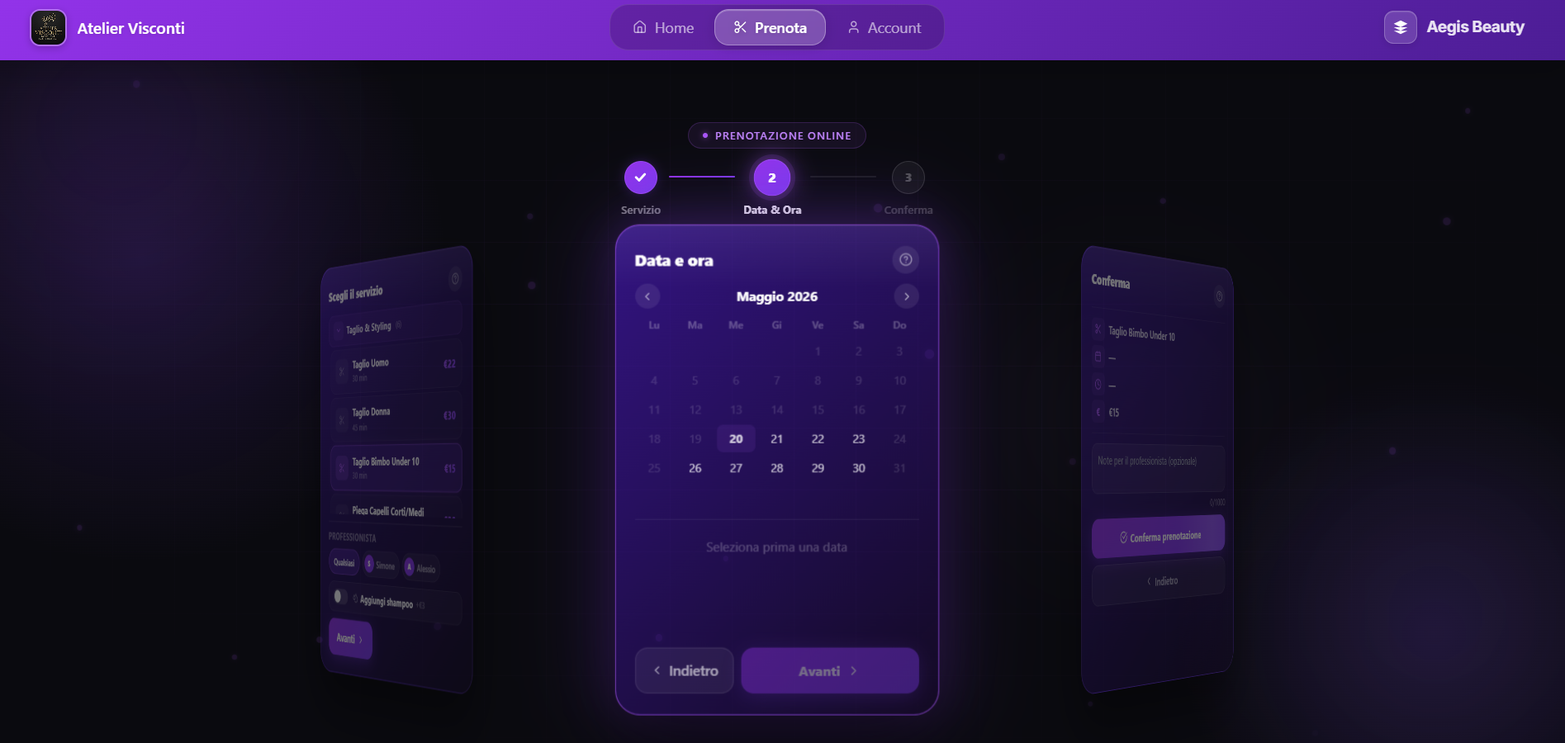
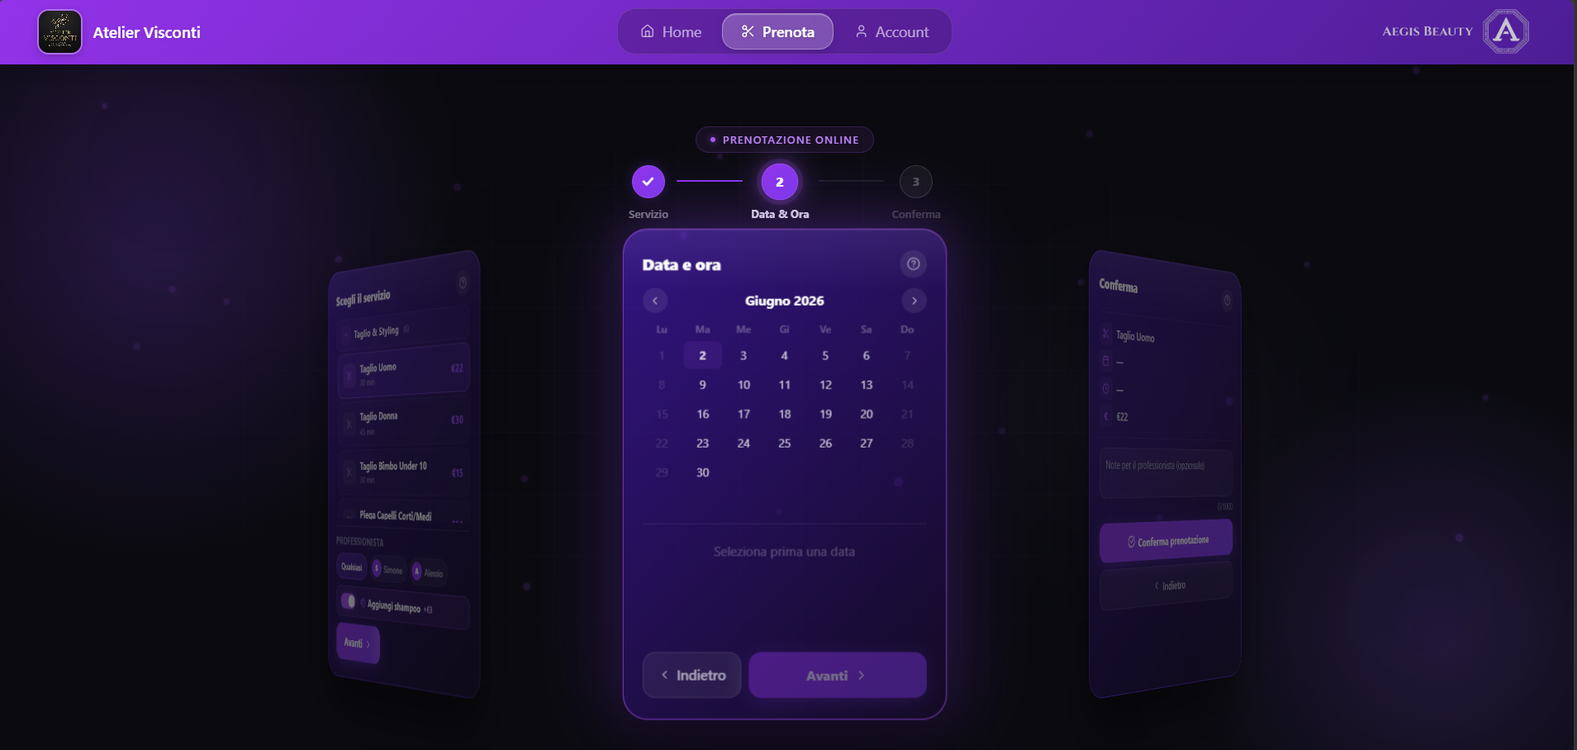
feat: update prenotazioni product screenshot with new branding

diff --git a/apps/aegis-beauty/public/sw.js b/apps/aegis-beauty/public/sw.js
@@ -1,1 +1,1 @@
-if(!self.define){let e,a={};const n=(n,s)=>(n=new URL(n+".js",s).href,a[n]||new Promise(a=>{if("document"in self){const e=document.createElement("script");e.src=n,e.onload=a,document.head.appendChild(e)}else e=n,importScripts(n),a()}).then(()=>{let e=a[n];if(!e)throw new Error(`Module ${n} didn’t register its module`);return e}));self.define=(s,t)=>{const c=e||("document"in self?document.currentScript.src:"")||location.href;if(a[c])return;let r={};const i=e=>n(e,c),o={module:{uri:c},exports:r,require:i};a[c]=Promise.all(s.map(e=>o[e]||i(e))).then(e=>(t(...e),r))}}define(["./workbox-5194662c"],function(e){"use strict";importScripts("/fallback-ce627215c0e4a9af.js","/worker-e7cc60916d7f17f1.js"),self.skipWaiting(),e.clientsClaim(),e.precacheAndRoute([{url:"/_next/static/XR7Ss9BYuPwAQtqjApV0S/_buildManifest.js",revision:"f4dc98d4515ed831c1f0452f6252f7d5"},{url:"/_next/static/XR7Ss9BYuPwAQtqjApV0S/_ssgManifest.js",revision:"b6652df95db52feb4daf4eca35380933"},{url:"/_next/static/chunks/15947a89-3489dcf530e2bcbf.js",revision:"3489dcf530e2bcbf"},{url:"/_next/static/chunks/2138-be451a3358196c92.js",revision:"be451a3358196c92"},{url:"/_next/static/chunks/2716.df24ca353e3d2782.js",revision:"df24ca353e3d2782"},{url:"/_next/static/chunks/2737.d21a5d54d02839f7.js",revision:"d21a5d54d02839f7"},{url:"/_next/static/chunks/2792-0906f7c4f5b123bc.js",revision:"0906f7c4f5b123bc"},{url:"/_next/static/chunks/2923-2fb2f4869fe125fe.js",revision:"2fb2f4869fe125fe"},{url:"/_next/static/chunks/3253-3761fb05873fb2f2.js",revision:"3761fb05873fb2f2"},{url:"/_next/static/chunks/3451-76a824fe5e76805a.js",revision:"76a824fe5e76805a"},{url:"/_next/static/chunks/3700-9677e51c2f240df4.js",revision:"9677e51c2f240df4"},{url:"/_next/static/chunks/3770-c9e68496c05d9572.js",revision:"c9e68496c05d9572"},{url:"/_next/static/chunks/4174.1a72b0b98ca14300.js",revision:"1a72b0b98ca14300"},{url:"/_next/static/chunks/4220-484f861d17287106.js",revision:"484f861d17287106"},{url:"/_next/static/chunks/4507-17f594d5a46447b5.js",revision:"17f594d5a46447b5"},{url:"/_next/static/chunks/4579.39316dc49619d892.js",revision:"39316dc49619d892"},{url:"/_next/static/chunks/659-ce48c1b6dd88d735.js",revision:"ce48c1b6dd88d735"},{url:"/_next/static/chunks/7026-0ad234174be0779d.js",revision:"0ad234174be0779d"},{url:"/_next/static/chunks/9853.11406703f96f9cda.js",revision:"11406703f96f9cda"},{url:"/_next/static/chunks/9865-06ed6395fa0a3a1f.js",revision:"06ed6395fa0a3a1f"},{url:"/_next/static/chunks/app/(auth)/forgot-password/page-def0dce28ab94205.js",revision:"def0dce28ab94205"},{url:"/_next/static/chunks/app/(auth)/layout-13ca588f9fa88ec7.js",revision:"13ca588f9fa88ec7"},{url:"/_next/static/chunks/app/(auth)/login/page-5b086d0565b33ddf.js",revision:"5b086d0565b33ddf"},{url:"/_next/static/chunks/app/(auth)/register/page-254d63c24905d7c3.js",revision:"254d63c24905d7c3"},{url:"/_next/static/chunks/app/(auth)/reset-password/page-f1edcecd67e63588.js",revision:"f1edcecd67e63588"},{url:"/_next/static/chunks/app/(customer)/%5BbusinessSlug%5D/account/page-db9a6a37c7a7b437.js",revision:"db9a6a37c7a7b437"},{url:"/_next/static/chunks/app/(customer)/%5BbusinessSlug%5D/layout-45c093cabf4d6eda.js",revision:"45c093cabf4d6eda"},{url:"/_next/static/chunks/app/(customer)/%5BbusinessSlug%5D/page-c15ccc3008368fcd.js",revision:"c15ccc3008368fcd"},{url:"/_next/static/chunks/app/(customer)/%5BbusinessSlug%5D/prenota/page-6a3723cd69ae64f3.js",revision:"6a3723cd69ae64f3"},{url:"/_next/static/chunks/app/(customer)/layout-13ca588f9fa88ec7.js",revision:"13ca588f9fa88ec7"},{url:"/_next/static/chunks/app/(dashboard)/dashboard/aiuto/page-d1ec727b9d383804.js",revision:"d1ec727b9d383804"},{url:"/_next/static/chunks/app/(dashboard)/dashboard/calendario/page-86d13ef339342335.js",revision:"86d13ef339342335"},{url:"/_next/static/chunks/app/(dashboard)/dashboard/clienti/page-f689393918676e3f.js",revision:"f689393918676e3f"},{url:"/_next/static/chunks/app/(dashboard)/dashboard/impostazioni/page-186abb1deadd1bc3.js",revision:"186abb1deadd1bc3"},{url:"/_next/static/chunks/app/(dashboard)/dashboard/page-e3fa49ee33bc5618.js",revision:"e3fa49ee33bc5618"},{url:"/_next/static/chunks/app/(dashboard)/dashboard/servizi/page-3461a21c6356e2f6.js",revision:"3461a21c6356e2f6"},{url:"/_next/static/chunks/app/(dashboard)/dashboard/staff/page-215603426b024e76.js",revision:"215603426b024e76"},{url:"/_next/static/chunks/app/(dashboard)/dashboard/statistiche/page-24c0ddd59c3225cf.js",revision:"24c0ddd59c3225cf"},{url:"/_next/static/chunks/app/(dashboard)/layout-22deca48145b0a24.js",revision:"22deca48145b0a24"},{url:"/_next/static/chunks/app/(dashboard)/onboarding/%5Bstep%5D/page-87357842d20b77d6.js",revision:"87357842d20b77d6"},{url:"/_next/static/chunks/app/(dashboard)/onboarding/layout-23f4c2131bf189e1.js",revision:"23f4c2131bf189e1"},{url:"/_next/static/chunks/app/(dashboard)/onboarding/page-23e414cd8930c5ea.js",revision:"23e414cd8930c5ea"},{url:"/_next/static/chunks/app/(marketing)/demo/page-c25df75e25b04d91.js",revision:"c25df75e25b04d91"},{url:"/_next/static/chunks/app/(marketing)/layout-d166dcfe3d0bac3e.js",revision:"d166dcfe3d0bac3e"},{url:"/_next/static/chunks/app/(marketing)/legal/page-efa3a81dd0faeb64.js",revision:"efa3a81dd0faeb64"},{url:"/_next/static/chunks/app/(marketing)/page-4ea2a7c766dd0ac9.js",revision:"4ea2a7c766dd0ac9"},{url:"/_next/static/chunks/app/_not-found/page-1b0e63a15d78ac67.js",revision:"1b0e63a15d78ac67"},{url:"/_next/static/chunks/app/api/appointments/create/route-13ca588f9fa88ec7.js",revision:"13ca588f9fa88ec7"},{url:"/_next/static/chunks/app/api/availability/route-13ca588f9fa88ec7.js",revision:"13ca588f9fa88ec7"},{url:"/_next/static/chunks/app/api/bookings/cancel/route-13ca588f9fa88ec7.js",revision:"13ca588f9fa88ec7"},{url:"/_next/static/chunks/app/api/bookings/create/route-13ca588f9fa88ec7.js",revision:"13ca588f9fa88ec7"},{url:"/_next/static/chunks/app/api/bookings/slots/route-13ca588f9fa88ec7.js",revision:"13ca588f9fa88ec7"},{url:"/_next/static/chunks/app/api/clients/import/route-13ca588f9fa88ec7.js",revision:"13ca588f9fa88ec7"},{url:"/_next/static/chunks/app/api/clients/invite-batch/route-13ca588f9fa88ec7.js",revision:"13ca588f9fa88ec7"},{url:"/_next/static/chunks/app/api/customer/link/route-13ca588f9fa88ec7.js",revision:"13ca588f9fa88ec7"},{url:"/_next/static/chunks/app/api/customers/search/route-13ca588f9fa88ec7.js",revision:"13ca588f9fa88ec7"},{url:"/_next/static/chunks/app/api/notifications/inbox/route-13ca588f9fa88ec7.js",revision:"13ca588f9fa88ec7"},{url:"/_next/static/chunks/app/api/notifications/monthly/route-13ca588f9fa88ec7.js",revision:"13ca588f9fa88ec7"},{url:"/_next/static/chunks/app/api/notifications/reminder/route-13ca588f9fa88ec7.js",revision:"13ca588f9fa88ec7"},{url:"/_next/static/chunks/app/api/push/send/route-13ca588f9fa88ec7.js",revision:"13ca588f9fa88ec7"},{url:"/_next/static/chunks/app/api/push/subscribe/route-13ca588f9fa88ec7.js",revision:"13ca588f9fa88ec7"},{url:"/_next/static/chunks/app/api/push/unsubscribe/route-13ca588f9fa88ec7.js",revision:"13ca588f9fa88ec7"},{url:"/_next/static/chunks/app/api/staff/invite/route-13ca588f9fa88ec7.js",revision:"13ca588f9fa88ec7"},{url:"/_next/static/chunks/app/api/staff/permissions/route-13ca588f9fa88ec7.js",revision:"13ca588f9fa88ec7"},{url:"/_next/static/chunks/app/api/staff/register/route-13ca588f9fa88ec7.js",revision:"13ca588f9fa88ec7"},{url:"/_next/static/chunks/app/api/staff/setup/route-13ca588f9fa88ec7.js",revision:"13ca588f9fa88ec7"},{url:"/_next/static/chunks/app/api/support/route-13ca588f9fa88ec7.js",revision:"13ca588f9fa88ec7"},{url:"/_next/static/chunks/app/auth/callback/route-13ca588f9fa88ec7.js",revision:"13ca588f9fa88ec7"},{url:"/_next/static/chunks/app/layout-014fce5f8cb22581.js",revision:"014fce5f8cb22581"},{url:"/_next/static/chunks/app/robots.txt/route-13ca588f9fa88ec7.js",revision:"13ca588f9fa88ec7"},{url:"/_next/static/chunks/app/sitemap.xml/route-13ca588f9fa88ec7.js",revision:"13ca588f9fa88ec7"},{url:"/_next/static/chunks/app/start/page-13ca588f9fa88ec7.js",revision:"13ca588f9fa88ec7"},{url:"/_next/static/chunks/db534642-bcff2fd231656eb4.js",revision:"bcff2fd231656eb4"},{url:"/_next/static/chunks/f1aed662-2ba150516db6bd6e.js",revision:"2ba150516db6bd6e"},{url:"/_next/static/chunks/framework-97c573202684c401.js",revision:"97c573202684c401"},{url:"/_next/static/chunks/main-7b3374ab3640a6e9.js",revision:"7b3374ab3640a6e9"},{url:"/_next/static/chunks/main-app-ce181ddfc4b7c5d6.js",revision:"ce181ddfc4b7c5d6"},{url:"/_next/static/chunks/pages/_app-2a674d307585865d.js",revision:"2a674d307585865d"},{url:"/_next/static/chunks/pages/_error-10117e40c3cb360b.js",revision:"10117e40c3cb360b"},{url:"/_next/static/chunks/polyfills-42372ed130431b0a.js",revision:"846118c33b2c0e922d7b3a7676f81f6f"},{url:"/_next/static/chunks/webpack-fc5608c7a609d241.js",revision:"fc5608c7a609d241"},{url:"/_next/static/css/081a0afca5a9bd20.css",revision:"081a0afca5a9bd20"},{url:"/_next/static/css/fe96acad39e6e33a.css",revision:"fe96acad39e6e33a"},{url:"/_next/static/media/19cfc7226ec3afaa-s.woff2",revision:"9dda5cfc9a46f256d0e131bb535e46f8"},{url:"/_next/static/media/21350d82a1f187e9-s.woff2",revision:"4e2553027f1d60eff32898367dd4d541"},{url:"/_next/static/media/8e9860b6e62d6359-s.woff2",revision:"01ba6c2a184b8cba08b0d57167664d75"},{url:"/_next/static/media/ba9851c3c22cd980-s.woff2",revision:"9e494903d6b0ffec1a1e14d34427d44d"},{url:"/_next/static/media/c5fe6dc8356a8c31-s.woff2",revision:"027a89e9ab733a145db70f09b8a18b42"},{url:"/_next/static/media/df0a9ae256c0569c-s.woff2",revision:"d54db44de5ccb18886ece2fda72bdfe0"},{url:"/_next/static/media/e4af272ccee01ff0-s.p.woff2",revision:"65850a373e258f1c897a2b3d75eb74de"},{url:"/fallback-ce627215c0e4a9af.js",revision:"9890ee4ed588777bd05b3033bd1dcc92"},{url:"/logo-marketing.png",revision:"ecc1b0913a72a02256888a331a024595"},{url:"/logo-orizzontale-rev.png",revision:"1af867d9ac5ac43bab065be68aa0d5f4"},{url:"/logo-orizzontale.png",revision:"f9502aec0ac29a3d973c95cf07e32c56"},{url:"/logo-verticale.png",revision:"eb8bafae678d3ffbae5273ec2a9a561a"},{url:"/manifest.json",revision:"14cea6cd2b6a743d691e582016a4e8f7"},{url:"/offline.html",revision:"a4e3c01eea0c2c9c86d30042d7eac8c5"},{url:"/og-image.png",revision:"85efba457b961494fa7a86def8d57288"},{url:"/product-brand.png",revision:"ef37544c1cb1c69c819c5ad8b142a759"},{url:"/product-calendario.png",revision:"d65c880da19f5776120b3372bcb06e65"},{url:"/product-clienti.png",revision:"2a5b91c66bba7460511ede7f51052257"},{url:"/product-overview.png",revision:"52a384c2410a6d4a9f59982ca948603c"},{url:"/product-prenota.png",revision:"e6d2996251b254a05e3a34c1e436ccc6"},{url:"/product-staff.png",revision:"5518f5af5bfd75b4959ec3ec48037939"},{url:"/product-statistiche.png",revision:"32461af0867b67fcc668f71f96503699"},{url:"/worker-e7cc60916d7f17f1.js",revision:"754923e37079918ef24008bebd8b8008"}],{ignoreURLParametersMatching:[/^utm_/,/^fbclid$/]}),e.cleanupOutdatedCaches(),e.registerRoute("/",new e.NetworkFirst({cacheName:"start-url",plugins:[{cacheWillUpdate:function(e){var a=e.response;return _async_to_generator(function(){return _ts_generator(this,function(e){return[2,a&&"opaqueredirect"===a.type?new Response(a.body,{status:200,statusText:"OK",headers:a.headers}):a]})})()}},{handlerDidError:function(e){var a=e.request;return _async_to_generator(function(){return _ts_generator(this,function(e){return[2,"undefined"!=typeof self?self.fallback(a):Response.error()]})})()}}]}),"GET"),e.registerRoute(/^https:\/\/fonts\.(?:gstatic)\.com\/.*/i,new e.CacheFirst({cacheName:"google-fonts-webfonts",plugins:[new e.ExpirationPlugin({maxEntries:4,maxAgeSeconds:31536e3}),{handlerDidError:function(e){var a=e.request;return _async_to_generator(function(){return _ts_generator(this,function(e){return[2,"undefined"!=typeof self?self.fallback(a):Response.error()]})})()}}]}),"GET"),e.registerRoute(/^https:\/\/fonts\.(?:googleapis)\.com\/.*/i,new e.StaleWhileRevalidate({cacheName:"google-fonts-stylesheets",plugins:[new e.ExpirationPlugin({maxEntries:4,maxAgeSeconds:604800}),{handlerDidError:function(e){var a=e.request;return _async_to_generator(function(){return _ts_generator(this,function(e){return[2,"undefined"!=typeof self?self.fallback(a):Response.error()]})})()}}]}),"GET"),e.registerRoute(/\.(?:eot|otf|ttc|ttf|woff|woff2|font.css)$/i,new e.StaleWhileRevalidate({cacheName:"static-font-assets",plugins:[new e.ExpirationPlugin({maxEntries:4,maxAgeSeconds:604800}),{handlerDidError:function(e){var a=e.request;return _async_to_generator(function(){return _ts_generator(this,function(e){return[2,"undefined"!=typeof self?self.fallback(a):Response.error()]})})()}}]}),"GET"),e.registerRoute(/\.(?:jpg|jpeg|gif|png|svg|ico|webp)$/i,new e.StaleWhileRevalidate({cacheName:"static-image-assets",plugins:[new e.ExpirationPlugin({maxEntries:64,maxAgeSeconds:2592e3}),{handlerDidError:function(e){var a=e.request;return _async_to_generator(function(){return _ts_generator(this,function(e){return[2,"undefined"!=typeof self?self.fallback(a):Response.error()]})})()}}]}),"GET"),e.registerRoute(/\/_next\/static.+\.js$/i,new e.CacheFirst({cacheName:"next-static-js-assets",plugins:[new e.ExpirationPlugin({maxEntries:64,maxAgeSeconds:86400}),{handlerDidError:function(e){var a=e.request;return _async_to_generator(function(){return _ts_generator(this,function(e){return[2,"undefined"!=typeof self?self.fallback(a):Response.error()]})})()}}]}),"GET"),e.registerRoute(/\/_next\/image\?url=.+$/i,new e.StaleWhileRevalidate({cacheName:"next-image",plugins:[new e.ExpirationPlugin({maxEntries:64,maxAgeSeconds:86400}),{handlerDidError:function(e){var a=e.request;return _async_to_generator(function(){return _ts_generator(this,function(e){return[2,"undefined"!=typeof self?self.fallback(a):Response.error()]})})()}}]}),"GET"),e.registerRoute(/\.(?:mp3|wav|ogg)$/i,new e.CacheFirst({cacheName:"static-audio-assets",plugins:[new e.RangeRequestsPlugin,new e.ExpirationPlugin({maxEntries:32,maxAgeSeconds:86400}),{handlerDidError:function(e){var a=e.request;return _async_to_generator(function(){return _ts_generator(this,function(e){return[2,"undefined"!=typeof self?self.fallback(a):Response.error()]})})()}}]}),"GET"),e.registerRoute(/\.(?:mp4|webm)$/i,new e.CacheFirst({cacheName:"static-video-assets",plugins:[new e.RangeRequestsPlugin,new e.ExpirationPlugin({maxEntries:32,maxAgeSeconds:86400}),{handlerDidError:function(e){var a=e.request;return _async_to_generator(function(){return _ts_generator(this,function(e){return[2,"undefined"!=typeof self?self.fallback(a):Response.error()]})})()}}]}),"GET"),e.registerRoute(/\.(?:js)$/i,new e.StaleWhileRevalidate({cacheName:"static-js-assets",plugins:[new e.ExpirationPlugin({maxEntries:48,maxAgeSeconds:86400}),{handlerDidError:function(e){var a=e.request;return _async_to_generator(function(){return _ts_generator(this,function(e){return[2,"undefined"!=typeof self?self.fallback(a):Response.error()]})})()}}]}),"GET"),e.registerRoute(/\.(?:css|less)$/i,new e.StaleWhileRevalidate({cacheName:"static-style-assets",plugins:[new e.ExpirationPlugin({maxEntries:32,maxAgeSeconds:86400}),{handlerDidError:function(e){var a=e.request;return _async_to_generator(function(){return _ts_generator(this,function(e){return[2,"undefined"!=typeof self?self.fallback(a):Response.error()]})})()}}]}),"GET"),e.registerRoute(/\/_next\/data\/.+\/.+\.json$/i,new e.StaleWhileRevalidate({cacheName:"next-data",plugins:[new e.ExpirationPlugin({maxEntries:32,maxAgeSeconds:86400}),{handlerDidError:function(e){var a=e.request;return _async_to_generator(function(){return _ts_generator(this,function(e){return[2,"undefined"!=typeof self?self.fallback(a):Response.error()]})})()}}]}),"GET"),e.registerRoute(/\.(?:json|xml|csv)$/i,new e.NetworkFirst({cacheName:"static-data-assets",plugins:[new e.ExpirationPlugin({maxEntries:32,maxAgeSeconds:86400}),{handlerDidError:function(e){var a=e.request;return _async_to_generator(function(){return _ts_generator(this,function(e){return[2,"undefined"!=typeof self?self.fallback(a):Response.error()]})})()}}]}),"GET"),e.registerRoute(function(e){var a=e.sameOrigin,n=e.url.pathname;return!(!a||n.startsWith("/api/auth/callback")||!n.startsWith("/api/"))},new e.NetworkFirst({cacheName:"apis",networkTimeoutSeconds:10,plugins:[new e.ExpirationPlugin({maxEntries:16,maxAgeSeconds:86400}),{handlerDidError:function(e){var a=e.request;return _async_to_generator(function(){return _ts_generator(this,function(e){return[2,"undefined"!=typeof self?self.fallback(a):Response.error()]})})()}}]}),"GET"),e.registerRoute(function(e){var a=e.request,n=e.url.pathname,s=e.sameOrigin;return"1"===a.headers.get("RSC")&&"1"===a.headers.get("Next-Router-Prefetch")&&s&&!n.startsWith("/api/")},new e.NetworkFirst({cacheName:"pages-rsc-prefetch",plugins:[new e.ExpirationPlugin({maxEntries:32,maxAgeSeconds:86400}),{handlerDidError:function(e){var a=e.request;return _async_to_generator(function(){return _ts_generator(this,function(e){return[2,"undefined"!=typeof self?self.fallback(a):Response.error()]})})()}}]}),"GET"),e.registerRoute(function(e){var a=e.request,n=e.url.pathname,s=e.sameOrigin;return"1"===a.headers.get("RSC")&&s&&!n.startsWith("/api/")},new e.NetworkFirst({cacheName:"pages-rsc",plugins:[new e.ExpirationPlugin({maxEntries:32,maxAgeSeconds:86400}),{handlerDidError:function(e){var a=e.request;return _async_to_generator(function(){return _ts_generator(this,function(e){return[2,"undefined"!=typeof self?self.fallback(a):Response.error()]})})()}}]}),"GET"),e.registerRoute(function(e){var a=e.url.pathname;return e.sameOrigin&&!a.startsWith("/api/")},new e.NetworkFirst({cacheName:"pages",plugins:[new e.ExpirationPlugin({maxEntries:32,maxAgeSeconds:86400}),{handlerDidError:function(e){var a=e.request;return _async_to_generator(function(){return _ts_generator(this,function(e){return[2,"undefined"!=typeof self?self.fallback(a):Response.error()]})})()}}]}),"GET"),e.registerRoute(function(e){return!e.sameOrigin},new e.NetworkFirst({cacheName:"cross-origin",networkTimeoutSeconds:10,plugins:[new e.ExpirationPlugin({maxEntries:32,maxAgeSeconds:3600}),{handlerDidError:function(e){var a=e.request;return _async_to_generator(function(){return _ts_generator(this,function(e){return[2,"undefined"!=typeof self?self.fallback(a):Response.error()]})})()}}]}),"GET")});
+if(!self.define){let e,a={};const n=(n,s)=>(n=new URL(n+".js",s).href,a[n]||new Promise(a=>{if("document"in self){const e=document.createElement("script");e.src=n,e.onload=a,document.head.appendChild(e)}else e=n,importScripts(n),a()}).then(()=>{let e=a[n];if(!e)throw new Error(`Module ${n} didn’t register its module`);return e}));self.define=(s,t)=>{const c=e||("document"in self?document.currentScript.src:"")||location.href;if(a[c])return;let r={};const i=e=>n(e,c),o={module:{uri:c},exports:r,require:i};a[c]=Promise.all(s.map(e=>o[e]||i(e))).then(e=>(t(...e),r))}}define(["./workbox-5194662c"],function(e){"use strict";importScripts("/fallback-ce627215c0e4a9af.js","/worker-e7cc60916d7f17f1.js"),self.skipWaiting(),e.clientsClaim(),e.precacheAndRoute([{url:"/_next/static/chunks/15947a89-3489dcf530e2bcbf.js",revision:"3489dcf530e2bcbf"},{url:"/_next/static/chunks/2138-be451a3358196c92.js",revision:"be451a3358196c92"},{url:"/_next/static/chunks/2716.df24ca353e3d2782.js",revision:"df24ca353e3d2782"},{url:"/_next/static/chunks/2737.d21a5d54d02839f7.js",revision:"d21a5d54d02839f7"},{url:"/_next/static/chunks/2792-0906f7c4f5b123bc.js",revision:"0906f7c4f5b123bc"},{url:"/_next/static/chunks/2923-2fb2f4869fe125fe.js",revision:"2fb2f4869fe125fe"},{url:"/_next/static/chunks/3253-3761fb05873fb2f2.js",revision:"3761fb05873fb2f2"},{url:"/_next/static/chunks/3451-76a824fe5e76805a.js",revision:"76a824fe5e76805a"},{url:"/_next/static/chunks/3700-9677e51c2f240df4.js",revision:"9677e51c2f240df4"},{url:"/_next/static/chunks/3770-c9e68496c05d9572.js",revision:"c9e68496c05d9572"},{url:"/_next/static/chunks/4174.1a72b0b98ca14300.js",revision:"1a72b0b98ca14300"},{url:"/_next/static/chunks/4220-484f861d17287106.js",revision:"484f861d17287106"},{url:"/_next/static/chunks/4507-17f594d5a46447b5.js",revision:"17f594d5a46447b5"},{url:"/_next/static/chunks/4579.39316dc49619d892.js",revision:"39316dc49619d892"},{url:"/_next/static/chunks/659-ce48c1b6dd88d735.js",revision:"ce48c1b6dd88d735"},{url:"/_next/static/chunks/7026-0ad234174be0779d.js",revision:"0ad234174be0779d"},{url:"/_next/static/chunks/9853.11406703f96f9cda.js",revision:"11406703f96f9cda"},{url:"/_next/static/chunks/9865-06ed6395fa0a3a1f.js",revision:"06ed6395fa0a3a1f"},{url:"/_next/static/chunks/app/(auth)/forgot-password/page-def0dce28ab94205.js",revision:"def0dce28ab94205"},{url:"/_next/static/chunks/app/(auth)/layout-13ca588f9fa88ec7.js",revision:"13ca588f9fa88ec7"},{url:"/_next/static/chunks/app/(auth)/login/page-5b086d0565b33ddf.js",revision:"5b086d0565b33ddf"},{url:"/_next/static/chunks/app/(auth)/register/page-254d63c24905d7c3.js",revision:"254d63c24905d7c3"},{url:"/_next/static/chunks/app/(auth)/reset-password/page-f1edcecd67e63588.js",revision:"f1edcecd67e63588"},{url:"/_next/static/chunks/app/(customer)/%5BbusinessSlug%5D/account/page-db9a6a37c7a7b437.js",revision:"db9a6a37c7a7b437"},{url:"/_next/static/chunks/app/(customer)/%5BbusinessSlug%5D/layout-45c093cabf4d6eda.js",revision:"45c093cabf4d6eda"},{url:"/_next/static/chunks/app/(customer)/%5BbusinessSlug%5D/page-c15ccc3008368fcd.js",revision:"c15ccc3008368fcd"},{url:"/_next/static/chunks/app/(customer)/%5BbusinessSlug%5D/prenota/page-6a3723cd69ae64f3.js",revision:"6a3723cd69ae64f3"},{url:"/_next/static/chunks/app/(customer)/layout-13ca588f9fa88ec7.js",revision:"13ca588f9fa88ec7"},{url:"/_next/static/chunks/app/(dashboard)/dashboard/aiuto/page-d1ec727b9d383804.js",revision:"d1ec727b9d383804"},{url:"/_next/static/chunks/app/(dashboard)/dashboard/calendario/page-86d13ef339342335.js",revision:"86d13ef339342335"},{url:"/_next/static/chunks/app/(dashboard)/dashboard/clienti/page-f689393918676e3f.js",revision:"f689393918676e3f"},{url:"/_next/static/chunks/app/(dashboard)/dashboard/impostazioni/page-186abb1deadd1bc3.js",revision:"186abb1deadd1bc3"},{url:"/_next/static/chunks/app/(dashboard)/dashboard/page-e3fa49ee33bc5618.js",revision:"e3fa49ee33bc5618"},{url:"/_next/static/chunks/app/(dashboard)/dashboard/servizi/page-3461a21c6356e2f6.js",revision:"3461a21c6356e2f6"},{url:"/_next/static/chunks/app/(dashboard)/dashboard/staff/page-215603426b024e76.js",revision:"215603426b024e76"},{url:"/_next/static/chunks/app/(dashboard)/dashboard/statistiche/page-24c0ddd59c3225cf.js",revision:"24c0ddd59c3225cf"},{url:"/_next/static/chunks/app/(dashboard)/layout-22deca48145b0a24.js",revision:"22deca48145b0a24"},{url:"/_next/static/chunks/app/(dashboard)/onboarding/%5Bstep%5D/page-87357842d20b77d6.js",revision:"87357842d20b77d6"},{url:"/_next/static/chunks/app/(dashboard)/onboarding/layout-23f4c2131bf189e1.js",revision:"23f4c2131bf189e1"},{url:"/_next/static/chunks/app/(dashboard)/onboarding/page-23e414cd8930c5ea.js",revision:"23e414cd8930c5ea"},{url:"/_next/static/chunks/app/(marketing)/demo/page-c25df75e25b04d91.js",revision:"c25df75e25b04d91"},{url:"/_next/static/chunks/app/(marketing)/layout-d166dcfe3d0bac3e.js",revision:"d166dcfe3d0bac3e"},{url:"/_next/static/chunks/app/(marketing)/legal/page-efa3a81dd0faeb64.js",revision:"efa3a81dd0faeb64"},{url:"/_next/static/chunks/app/(marketing)/page-8a7dce8b93886e20.js",revision:"8a7dce8b93886e20"},{url:"/_next/static/chunks/app/_not-found/page-1b0e63a15d78ac67.js",revision:"1b0e63a15d78ac67"},{url:"/_next/static/chunks/app/api/appointments/create/route-13ca588f9fa88ec7.js",revision:"13ca588f9fa88ec7"},{url:"/_next/static/chunks/app/api/availability/route-13ca588f9fa88ec7.js",revision:"13ca588f9fa88ec7"},{url:"/_next/static/chunks/app/api/bookings/cancel/route-13ca588f9fa88ec7.js",revision:"13ca588f9fa88ec7"},{url:"/_next/static/chunks/app/api/bookings/create/route-13ca588f9fa88ec7.js",revision:"13ca588f9fa88ec7"},{url:"/_next/static/chunks/app/api/bookings/slots/route-13ca588f9fa88ec7.js",revision:"13ca588f9fa88ec7"},{url:"/_next/static/chunks/app/api/clients/import/route-13ca588f9fa88ec7.js",revision:"13ca588f9fa88ec7"},{url:"/_next/static/chunks/app/api/clients/invite-batch/route-13ca588f9fa88ec7.js",revision:"13ca588f9fa88ec7"},{url:"/_next/static/chunks/app/api/customer/link/route-13ca588f9fa88ec7.js",revision:"13ca588f9fa88ec7"},{url:"/_next/static/chunks/app/api/customers/search/route-13ca588f9fa88ec7.js",revision:"13ca588f9fa88ec7"},{url:"/_next/static/chunks/app/api/notifications/inbox/route-13ca588f9fa88ec7.js",revision:"13ca588f9fa88ec7"},{url:"/_next/static/chunks/app/api/notifications/monthly/route-13ca588f9fa88ec7.js",revision:"13ca588f9fa88ec7"},{url:"/_next/static/chunks/app/api/notifications/reminder/route-13ca588f9fa88ec7.js",revision:"13ca588f9fa88ec7"},{url:"/_next/static/chunks/app/api/push/send/route-13ca588f9fa88ec7.js",revision:"13ca588f9fa88ec7"},{url:"/_next/static/chunks/app/api/push/subscribe/route-13ca588f9fa88ec7.js",revision:"13ca588f9fa88ec7"},{url:"/_next/static/chunks/app/api/push/unsubscribe/route-13ca588f9fa88ec7.js",revision:"13ca588f9fa88ec7"},{url:"/_next/static/chunks/app/api/staff/invite/route-13ca588f9fa88ec7.js",revision:"13ca588f9fa88ec7"},{url:"/_next/static/chunks/app/api/staff/permissions/route-13ca588f9fa88ec7.js",revision:"13ca588f9fa88ec7"},{url:"/_next/static/chunks/app/api/staff/register/route-13ca588f9fa88ec7.js",revision:"13ca588f9fa88ec7"},{url:"/_next/static/chunks/app/api/staff/setup/route-13ca588f9fa88ec7.js",revision:"13ca588f9fa88ec7"},{url:"/_next/static/chunks/app/api/support/route-13ca588f9fa88ec7.js",revision:"13ca588f9fa88ec7"},{url:"/_next/static/chunks/app/auth/callback/route-13ca588f9fa88ec7.js",revision:"13ca588f9fa88ec7"},{url:"/_next/static/chunks/app/layout-014fce5f8cb22581.js",revision:"014fce5f8cb22581"},{url:"/_next/static/chunks/app/robots.txt/route-13ca588f9fa88ec7.js",revision:"13ca588f9fa88ec7"},{url:"/_next/static/chunks/app/sitemap.xml/route-13ca588f9fa88ec7.js",revision:"13ca588f9fa88ec7"},{url:"/_next/static/chunks/app/start/page-13ca588f9fa88ec7.js",revision:"13ca588f9fa88ec7"},{url:"/_next/static/chunks/db534642-bcff2fd231656eb4.js",revision:"bcff2fd231656eb4"},{url:"/_next/static/chunks/f1aed662-2ba150516db6bd6e.js",revision:"2ba150516db6bd6e"},{url:"/_next/static/chunks/framework-97c573202684c401.js",revision:"97c573202684c401"},{url:"/_next/static/chunks/main-7b3374ab3640a6e9.js",revision:"7b3374ab3640a6e9"},{url:"/_next/static/chunks/main-app-ce181ddfc4b7c5d6.js",revision:"ce181ddfc4b7c5d6"},{url:"/_next/static/chunks/pages/_app-2a674d307585865d.js",revision:"2a674d307585865d"},{url:"/_next/static/chunks/pages/_error-10117e40c3cb360b.js",revision:"10117e40c3cb360b"},{url:"/_next/static/chunks/polyfills-42372ed130431b0a.js",revision:"846118c33b2c0e922d7b3a7676f81f6f"},{url:"/_next/static/chunks/webpack-fc5608c7a609d241.js",revision:"fc5608c7a609d241"},{url:"/_next/static/css/081a0afca5a9bd20.css",revision:"081a0afca5a9bd20"},{url:"/_next/static/css/fe96acad39e6e33a.css",revision:"fe96acad39e6e33a"},{url:"/_next/static/media/19cfc7226ec3afaa-s.woff2",revision:"9dda5cfc9a46f256d0e131bb535e46f8"},{url:"/_next/static/media/21350d82a1f187e9-s.woff2",revision:"4e2553027f1d60eff32898367dd4d541"},{url:"/_next/static/media/8e9860b6e62d6359-s.woff2",revision:"01ba6c2a184b8cba08b0d57167664d75"},{url:"/_next/static/media/ba9851c3c22cd980-s.woff2",revision:"9e494903d6b0ffec1a1e14d34427d44d"},{url:"/_next/static/media/c5fe6dc8356a8c31-s.woff2",revision:"027a89e9ab733a145db70f09b8a18b42"},{url:"/_next/static/media/df0a9ae256c0569c-s.woff2",revision:"d54db44de5ccb18886ece2fda72bdfe0"},{url:"/_next/static/media/e4af272ccee01ff0-s.p.woff2",revision:"65850a373e258f1c897a2b3d75eb74de"},{url:"/_next/static/sM-kXc13PyYyR9Pp3gW1V/_buildManifest.js",revision:"f4dc98d4515ed831c1f0452f6252f7d5"},{url:"/_next/static/sM-kXc13PyYyR9Pp3gW1V/_ssgManifest.js",revision:"b6652df95db52feb4daf4eca35380933"},{url:"/fallback-ce627215c0e4a9af.js",revision:"9890ee4ed588777bd05b3033bd1dcc92"},{url:"/logo-marketing.png",revision:"ecc1b0913a72a02256888a331a024595"},{url:"/logo-orizzontale-rev.png",revision:"1af867d9ac5ac43bab065be68aa0d5f4"},{url:"/logo-orizzontale.png",revision:"f9502aec0ac29a3d973c95cf07e32c56"},{url:"/logo-verticale.png",revision:"eb8bafae678d3ffbae5273ec2a9a561a"},{url:"/manifest.json",revision:"14cea6cd2b6a743d691e582016a4e8f7"},{url:"/offline.html",revision:"a4e3c01eea0c2c9c86d30042d7eac8c5"},{url:"/og-image.png",revision:"85efba457b961494fa7a86def8d57288"},{url:"/product-brand.png",revision:"ef37544c1cb1c69c819c5ad8b142a759"},{url:"/product-calendario.png",revision:"d65c880da19f5776120b3372bcb06e65"},{url:"/product-clienti.png",revision:"2a5b91c66bba7460511ede7f51052257"},{url:"/product-overview.png",revision:"52a384c2410a6d4a9f59982ca948603c"},{url:"/product-prenota.png",revision:"14cc4bdec0b38b444fce42d02d5ad67f"},{url:"/product-staff.png",revision:"5518f5af5bfd75b4959ec3ec48037939"},{url:"/product-statistiche.png",revision:"32461af0867b67fcc668f71f96503699"},{url:"/worker-e7cc60916d7f17f1.js",revision:"754923e37079918ef24008bebd8b8008"}],{ignoreURLParametersMatching:[/^utm_/,/^fbclid$/]}),e.cleanupOutdatedCaches(),e.registerRoute("/",new e.NetworkFirst({cacheName:"start-url",plugins:[{cacheWillUpdate:function(e){var a=e.response;return _async_to_generator(function(){return _ts_generator(this,function(e){return[2,a&&"opaqueredirect"===a.type?new Response(a.body,{status:200,statusText:"OK",headers:a.headers}):a]})})()}},{handlerDidError:function(e){var a=e.request;return _async_to_generator(function(){return _ts_generator(this,function(e){return[2,"undefined"!=typeof self?self.fallback(a):Response.error()]})})()}}]}),"GET"),e.registerRoute(/^https:\/\/fonts\.(?:gstatic)\.com\/.*/i,new e.CacheFirst({cacheName:"google-fonts-webfonts",plugins:[new e.ExpirationPlugin({maxEntries:4,maxAgeSeconds:31536e3}),{handlerDidError:function(e){var a=e.request;return _async_to_generator(function(){return _ts_generator(this,function(e){return[2,"undefined"!=typeof self?self.fallback(a):Response.error()]})})()}}]}),"GET"),e.registerRoute(/^https:\/\/fonts\.(?:googleapis)\.com\/.*/i,new e.StaleWhileRevalidate({cacheName:"google-fonts-stylesheets",plugins:[new e.ExpirationPlugin({maxEntries:4,maxAgeSeconds:604800}),{handlerDidError:function(e){var a=e.request;return _async_to_generator(function(){return _ts_generator(this,function(e){return[2,"undefined"!=typeof self?self.fallback(a):Response.error()]})})()}}]}),"GET"),e.registerRoute(/\.(?:eot|otf|ttc|ttf|woff|woff2|font.css)$/i,new e.StaleWhileRevalidate({cacheName:"static-font-assets",plugins:[new e.ExpirationPlugin({maxEntries:4,maxAgeSeconds:604800}),{handlerDidError:function(e){var a=e.request;return _async_to_generator(function(){return _ts_generator(this,function(e){return[2,"undefined"!=typeof self?self.fallback(a):Response.error()]})})()}}]}),"GET"),e.registerRoute(/\.(?:jpg|jpeg|gif|png|svg|ico|webp)$/i,new e.StaleWhileRevalidate({cacheName:"static-image-assets",plugins:[new e.ExpirationPlugin({maxEntries:64,maxAgeSeconds:2592e3}),{handlerDidError:function(e){var a=e.request;return _async_to_generator(function(){return _ts_generator(this,function(e){return[2,"undefined"!=typeof self?self.fallback(a):Response.error()]})})()}}]}),"GET"),e.registerRoute(/\/_next\/static.+\.js$/i,new e.CacheFirst({cacheName:"next-static-js-assets",plugins:[new e.ExpirationPlugin({maxEntries:64,maxAgeSeconds:86400}),{handlerDidError:function(e){var a=e.request;return _async_to_generator(function(){return _ts_generator(this,function(e){return[2,"undefined"!=typeof self?self.fallback(a):Response.error()]})})()}}]}),"GET"),e.registerRoute(/\/_next\/image\?url=.+$/i,new e.StaleWhileRevalidate({cacheName:"next-image",plugins:[new e.ExpirationPlugin({maxEntries:64,maxAgeSeconds:86400}),{handlerDidError:function(e){var a=e.request;return _async_to_generator(function(){return _ts_generator(this,function(e){return[2,"undefined"!=typeof self?self.fallback(a):Response.error()]})})()}}]}),"GET"),e.registerRoute(/\.(?:mp3|wav|ogg)$/i,new e.CacheFirst({cacheName:"static-audio-assets",plugins:[new e.RangeRequestsPlugin,new e.ExpirationPlugin({maxEntries:32,maxAgeSeconds:86400}),{handlerDidError:function(e){var a=e.request;return _async_to_generator(function(){return _ts_generator(this,function(e){return[2,"undefined"!=typeof self?self.fallback(a):Response.error()]})})()}}]}),"GET"),e.registerRoute(/\.(?:mp4|webm)$/i,new e.CacheFirst({cacheName:"static-video-assets",plugins:[new e.RangeRequestsPlugin,new e.ExpirationPlugin({maxEntries:32,maxAgeSeconds:86400}),{handlerDidError:function(e){var a=e.request;return _async_to_generator(function(){return _ts_generator(this,function(e){return[2,"undefined"!=typeof self?self.fallback(a):Response.error()]})})()}}]}),"GET"),e.registerRoute(/\.(?:js)$/i,new e.StaleWhileRevalidate({cacheName:"static-js-assets",plugins:[new e.ExpirationPlugin({maxEntries:48,maxAgeSeconds:86400}),{handlerDidError:function(e){var a=e.request;return _async_to_generator(function(){return _ts_generator(this,function(e){return[2,"undefined"!=typeof self?self.fallback(a):Response.error()]})})()}}]}),"GET"),e.registerRoute(/\.(?:css|less)$/i,new e.StaleWhileRevalidate({cacheName:"static-style-assets",plugins:[new e.ExpirationPlugin({maxEntries:32,maxAgeSeconds:86400}),{handlerDidError:function(e){var a=e.request;return _async_to_generator(function(){return _ts_generator(this,function(e){return[2,"undefined"!=typeof self?self.fallback(a):Response.error()]})})()}}]}),"GET"),e.registerRoute(/\/_next\/data\/.+\/.+\.json$/i,new e.StaleWhileRevalidate({cacheName:"next-data",plugins:[new e.ExpirationPlugin({maxEntries:32,maxAgeSeconds:86400}),{handlerDidError:function(e){var a=e.request;return _async_to_generator(function(){return _ts_generator(this,function(e){return[2,"undefined"!=typeof self?self.fallback(a):Response.error()]})})()}}]}),"GET"),e.registerRoute(/\.(?:json|xml|csv)$/i,new e.NetworkFirst({cacheName:"static-data-assets",plugins:[new e.ExpirationPlugin({maxEntries:32,maxAgeSeconds:86400}),{handlerDidError:function(e){var a=e.request;return _async_to_generator(function(){return _ts_generator(this,function(e){return[2,"undefined"!=typeof self?self.fallback(a):Response.error()]})})()}}]}),"GET"),e.registerRoute(function(e){var a=e.sameOrigin,n=e.url.pathname;return!(!a||n.startsWith("/api/auth/callback")||!n.startsWith("/api/"))},new e.NetworkFirst({cacheName:"apis",networkTimeoutSeconds:10,plugins:[new e.ExpirationPlugin({maxEntries:16,maxAgeSeconds:86400}),{handlerDidError:function(e){var a=e.request;return _async_to_generator(function(){return _ts_generator(this,function(e){return[2,"undefined"!=typeof self?self.fallback(a):Response.error()]})})()}}]}),"GET"),e.registerRoute(function(e){var a=e.request,n=e.url.pathname,s=e.sameOrigin;return"1"===a.headers.get("RSC")&&"1"===a.headers.get("Next-Router-Prefetch")&&s&&!n.startsWith("/api/")},new e.NetworkFirst({cacheName:"pages-rsc-prefetch",plugins:[new e.ExpirationPlugin({maxEntries:32,maxAgeSeconds:86400}),{handlerDidError:function(e){var a=e.request;return _async_to_generator(function(){return _ts_generator(this,function(e){return[2,"undefined"!=typeof self?self.fallback(a):Response.error()]})})()}}]}),"GET"),e.registerRoute(function(e){var a=e.request,n=e.url.pathname,s=e.sameOrigin;return"1"===a.headers.get("RSC")&&s&&!n.startsWith("/api/")},new e.NetworkFirst({cacheName:"pages-rsc",plugins:[new e.ExpirationPlugin({maxEntries:32,maxAgeSeconds:86400}),{handlerDidError:function(e){var a=e.request;return _async_to_generator(function(){return _ts_generator(this,function(e){return[2,"undefined"!=typeof self?self.fallback(a):Response.error()]})})()}}]}),"GET"),e.registerRoute(function(e){var a=e.url.pathname;return e.sameOrigin&&!a.startsWith("/api/")},new e.NetworkFirst({cacheName:"pages",plugins:[new e.ExpirationPlugin({maxEntries:32,maxAgeSeconds:86400}),{handlerDidError:function(e){var a=e.request;return _async_to_generator(function(){return _ts_generator(this,function(e){return[2,"undefined"!=typeof self?self.fallback(a):Response.error()]})})()}}]}),"GET"),e.registerRoute(function(e){return!e.sameOrigin},new e.NetworkFirst({cacheName:"cross-origin",networkTimeoutSeconds:10,plugins:[new e.ExpirationPlugin({maxEntries:32,maxAgeSeconds:3600}),{handlerDidError:function(e){var a=e.request;return _async_to_generator(function(){return _ts_generator(this,function(e){return[2,"undefined"!=typeof self?self.fallback(a):Response.error()]})})()}}]}),"GET")});

diff --git a/apps/aegis-beauty/app/(marketing)/_components/sections/SolutionSection.tsx b/apps/aegis-beauty/app/(marketing)/_components/sections/SolutionSection.tsx
@@ -24,7 +24,7 @@ const DIMS: Record<string, { w: number; h: number }> = {
   '/product-clienti.png': { w: 1886, h: 914 },
   '/product-statistiche.png': { w: 1883, h: 910 },
   '/product-staff.png': { w: 1494, h: 388 },
-  '/product-prenota.png': { w: 1895, h: 900 },
+  '/product-prenota.png': { w: 1909, h: 908 },
   '/product-brand.png': { w: 817, h: 720 },
   '/product-overview.png': { w: 1884, h: 913 },
 };
